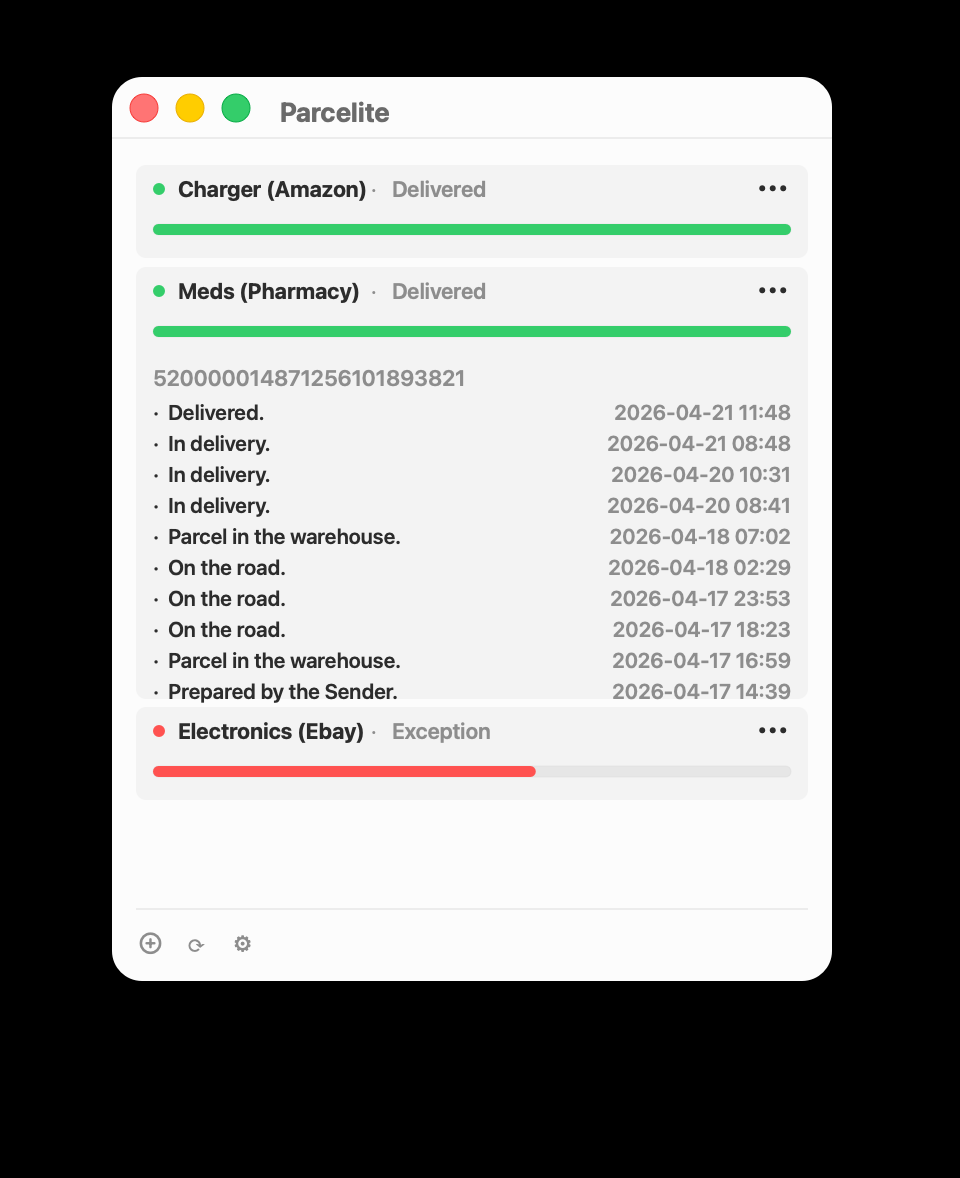
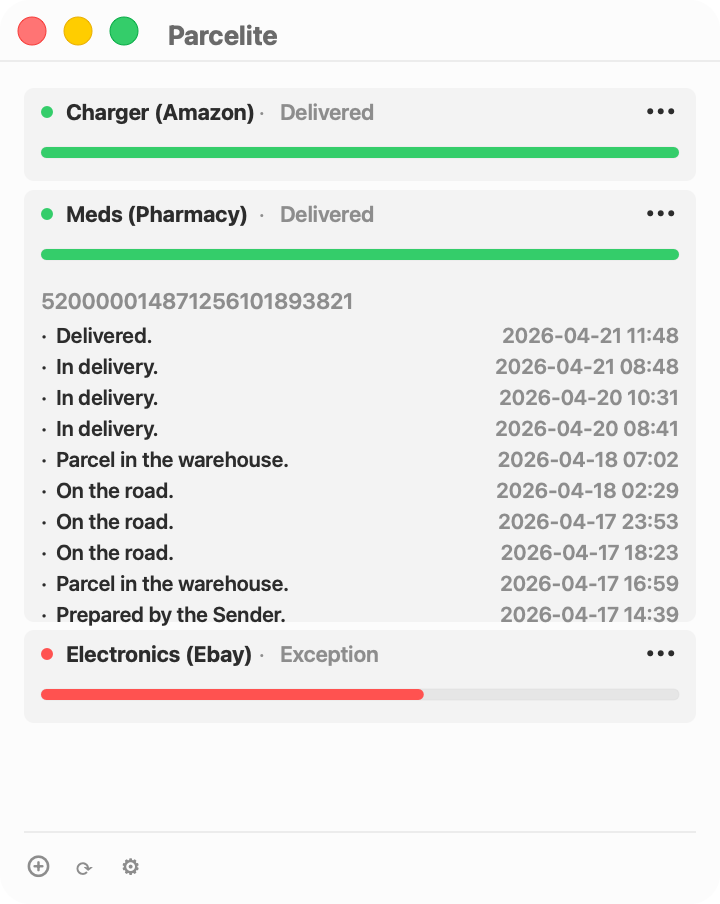
Refine repository preview assets

diff --git a/README.md b/README.md
@@ -9,8 +9,8 @@
 Parcelite is a lightweight macOS app for tracking deliveries from one focused window. It uses the Ship24 API for carrier updates, stores your tracking list locally, and keeps your API key in macOS Keychain.
 
 <p align="center">
-  <img src="docs/assets/parcelite-list.png" alt="Parcelite package list" width="420">
-  <img src="docs/assets/parcelite-details.png" alt="Parcelite package details" width="420">
+  <img src="docs/assets/parcelite-list.png" alt="Parcelite package list" width="330">&nbsp;
+  <img src="docs/assets/parcelite-details.png" alt="Parcelite package details" width="330">
 </p>
 
 ## Features
